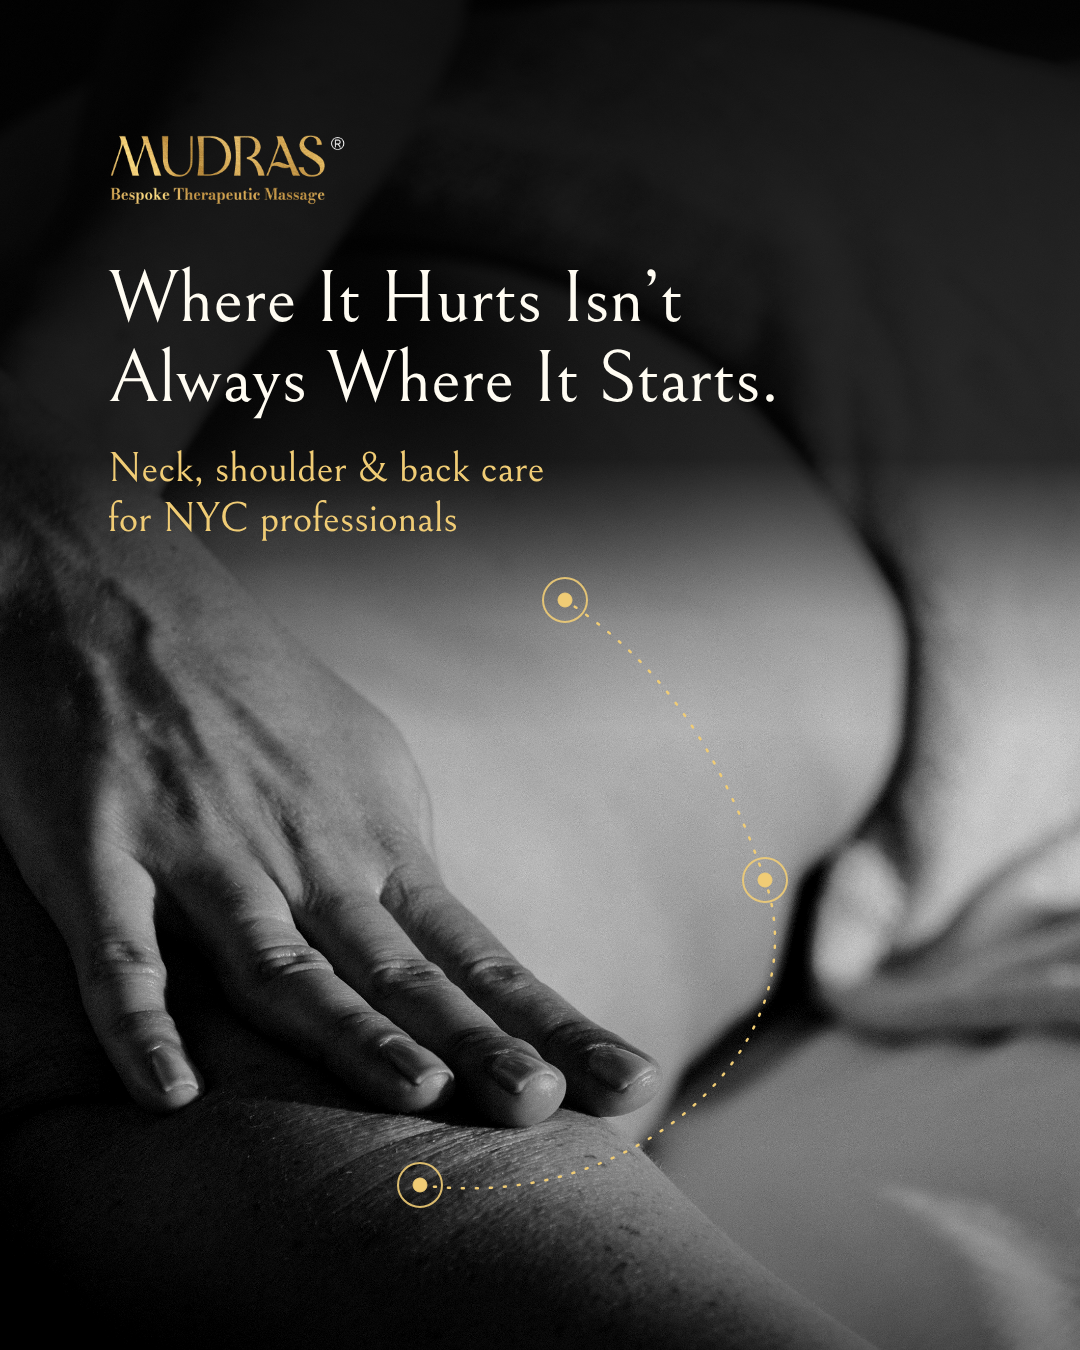
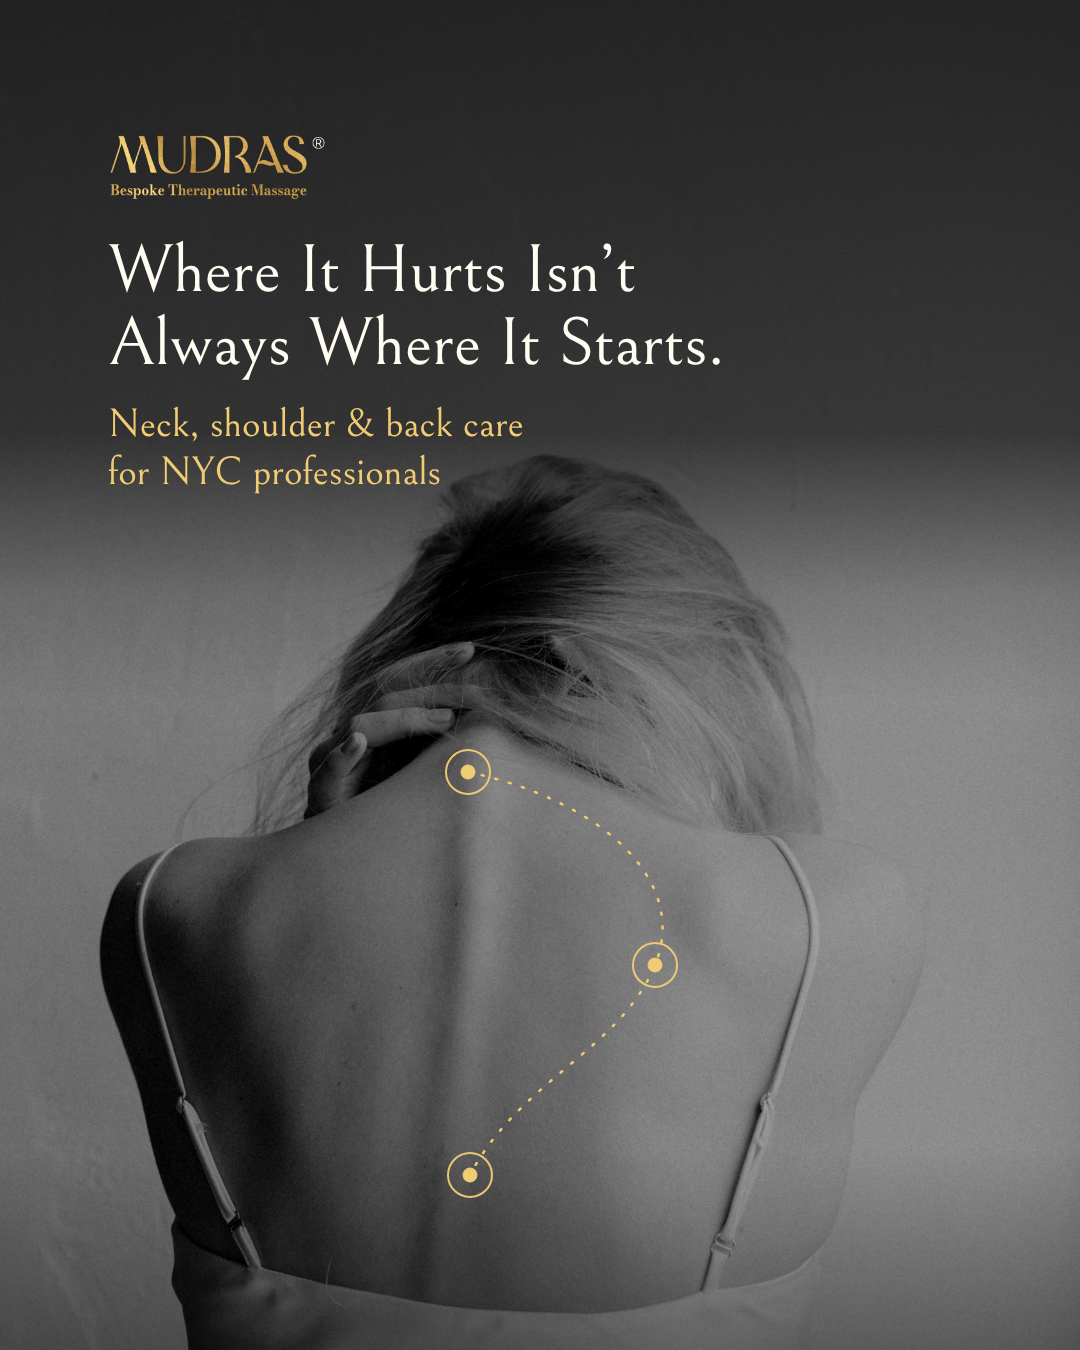
Mudras LinkedIn 'Where It Hurts': new stiff-neck photo with neck-to-back markers
Claude-Session: https://claude.ai/code/session_01WnXcuRrGu4zGnnykNFmZUS

diff --git a/deliverables/mudras/source/design/li-where-it-starts.html b/deliverables/mudras/source/design/li-where-it-starts.html
@@ -3,8 +3,8 @@
 <link href="https://fonts.googleapis.com/css2?family=Bellefair&family=Raleway:wght@500;600&display=block" rel="stylesheet">
 <style>
 /* Mudras brand tokens, taken from mudras.com theme CSS. Black/gold/white with a black-and-white photo
-   (hands-on shoulder work, no equipment). Three gold markers joined by a dotted gold line trace how tension
-   links shoulder, upper back and lower back: "where it hurts isn't always where it starts". */
+   (someone holding a stiff neck, seen from behind; no equipment). Three gold markers joined by a dotted gold
+   line trace how tension links neck, shoulder blade and mid-back: "where it hurts isn't always where it starts". */
 :root{
   --gold:#F0CC75;        /* accent  hsl(42.44 80.39% 70%) */
   --white:#FFFCF2;       /* white   hsl(46.15 100% 97.45%) */
@@ -16,8 +16,8 @@ body{background:#888;display:flex;flex-direction:column;gap:40px;padding:40px;al
 body.notext .t{visibility:hidden}
 .ab{position:relative;overflow:hidden;background:#000;color:var(--white)}
 .p45{width:1080px;height:1350px}
-.photo{position:absolute;inset:0;background-repeat:no-repeat;background-size:cover;filter:grayscale(1) contrast(1.08) brightness(.92)}
-.shade{position:absolute;inset:0;background:linear-gradient(180deg,rgba(0,0,0,.88) 0%,rgba(0,0,0,.8) 34%,rgba(0,0,0,.2) 46%,rgba(0,0,0,0) 54%,rgba(0,0,0,0) 85%,rgba(0,0,0,.35) 100%)}
+.photo{position:absolute;inset:0;background-repeat:no-repeat;background-size:cover;filter:grayscale(1) contrast(1.12) brightness(.62)}
+.shade{position:absolute;inset:0;background:linear-gradient(180deg,rgba(0,0,0,.72) 0%,rgba(0,0,0,.6) 32%,rgba(0,0,0,.15) 44%,rgba(0,0,0,0) 52%,rgba(0,0,0,0) 85%,rgba(0,0,0,.35) 100%)}
 .serif{font-family:var(--serif);font-weight:400;line-height:1.08}
 .caps{font-family:var(--sans);font-weight:600;text-transform:uppercase;letter-spacing:.2em;color:var(--gold)}
 .logo img{width:100%;display:block}
@@ -25,21 +25,21 @@ svg.chain{position:absolute;inset:0}
 </style></head><body>
 
 <div class="ab p45" id="li_where_it_starts">
-  <div class="photo" style="background-image:url(../img/li_shoulder_hands_c.jpg);background-position:50% 0%"></div>
+  <div class="photo" style="background-image:url(../img/li_neck_back2_c.jpg);background-position:50% 0%"></div>
   <div class="shade"></div>
   <svg class="chain" width="1080" height="1350" viewBox="0 0 1080 1350">
     <defs><filter id="glow"><feGaussianBlur stdDeviation="6"/></filter></defs>
-    <path d="M420 1185 C 640 1215, 820 1040, 765 880 S 640 650, 565 600" fill="none" stroke="#F0CC75" stroke-width="2.5" stroke-dasharray="2 12" stroke-linecap="round"/>
+    <path d="M468 772 C 600 800, 690 880, 655 965 S 520 1080, 470 1175" fill="none" stroke="#F0CC75" stroke-width="2.5" stroke-dasharray="2 12" stroke-linecap="round"/>
     <g fill="none" stroke="#F0CC75">
-      <circle cx="420" cy="1185" r="22" stroke-width="2" opacity=".9"/><circle cx="420" cy="1185" r="7" fill="#F0CC75"/>
-      <circle cx="765" cy="880" r="22" stroke-width="2" opacity=".9"/><circle cx="765" cy="880" r="7" fill="#F0CC75"/>
-      <circle cx="565" cy="600" r="22" stroke-width="2" opacity=".9"/><circle cx="565" cy="600" r="7" fill="#F0CC75"/>
+      <circle cx="468" cy="772" r="22" stroke-width="2" opacity=".95"/><circle cx="468" cy="772" r="7" fill="#F0CC75"/>
+      <circle cx="655" cy="965" r="22" stroke-width="2" opacity=".95"/><circle cx="655" cy="965" r="7" fill="#F0CC75"/>
+      <circle cx="470" cy="1175" r="22" stroke-width="2" opacity=".95"/><circle cx="470" cy="1175" r="7" fill="#F0CC75"/>
     </g>
   </svg>
-  <div class="logo t" style="position:absolute;left:108px;top:135px;width:240px"><img src="../site/orig_Group_1487669750.png"></div>
-  <div style="position:absolute;left:108px;right:108px;top:260px">
-    <div class="serif t" style="font-size:74px">Where It Hurts Isn&rsquo;t<br>Always Where It Starts.</div>
-    <div class="serif t" style="font-size:42px;line-height:1.2;color:var(--gold);margin-top:24px">Neck, shoulder &amp; back care<br>for NYC professionals</div>
+  <div class="logo t" style="position:absolute;left:108px;top:135px;width:220px"><img src="../site/orig_Group_1487669750.png"></div>
+  <div style="position:absolute;left:108px;right:108px;top:235px">
+    <div class="serif t" style="font-size:68px">Where It Hurts Isn&rsquo;t<br>Always Where It Starts.</div>
+    <div class="serif t" style="font-size:40px;line-height:1.2;color:var(--gold);margin-top:18px">Neck, shoulder &amp; back care<br>for NYC professionals</div>
   </div>
 </div>
 

diff --git a/deliverables/mudras/linkedin-where-it-starts/caption-and-image-link.md b/deliverables/mudras/linkedin-where-it-starts/caption-and-image-link.md
@@ -4,7 +4,12 @@ File: `linkedin/linkedin-single-image-1080x1350.png`
 
 Brand palette: black, gold and white, with a black-and-white photo. Logo and copy are top-left, as in the brand's "New York Film Festival" post.
 
-Creative idea: three gold markers on the body are joined by a dotted gold line. They trace how tension links the shoulder, mid-back and upper back, which is the post's point that where it hurts isn't always where it starts. There is no equipment in the frame; the photo shows hands-on work only.
+Creative idea: three gold markers are joined by a dotted gold line down the back:
+- the neck, where she is holding it
+- the shoulder blade
+- the mid-back
+
+This maps the post's point that where it hurts isn't always where it starts. There is no equipment in the frame.
 
 ## Image text
 Where It Hurts Isn't Always Where It Starts.
@@ -13,11 +18,11 @@ Neck, shoulder & back care for NYC professionals
 ## Image used
 | Image | Source | Link |
 |---|---|---|
-| A specialist's hand working on a client's shoulder and back on the massage table | Unsplash (free under the Unsplash License, commercial use allowed) | https://unsplash.com/photos/i0-A2noIOcs |
+| A woman seen from behind, head bowed, holding her stiff neck (no face) | Unsplash (free under the Unsplash License, commercial use allowed) | https://unsplash.com/photos/ooHoj0n6Tw0 |
 
-Direct download: https://images.unsplash.com/photo-1790244078248-9f3b38421058
+Direct download: https://images.unsplash.com/photo-1615997393458-98aad1851521
 
-The photo is cropped above the client's head, so no face shows, and converted to black and white.
+The photo is cropped to 4:5 and converted to black and white, darkened so the white copy and gold markers stand out. It replaces the earlier massage-table photo.
 
 ## Caption
 A stiff neck after a long week rarely starts and ends at the neck.
